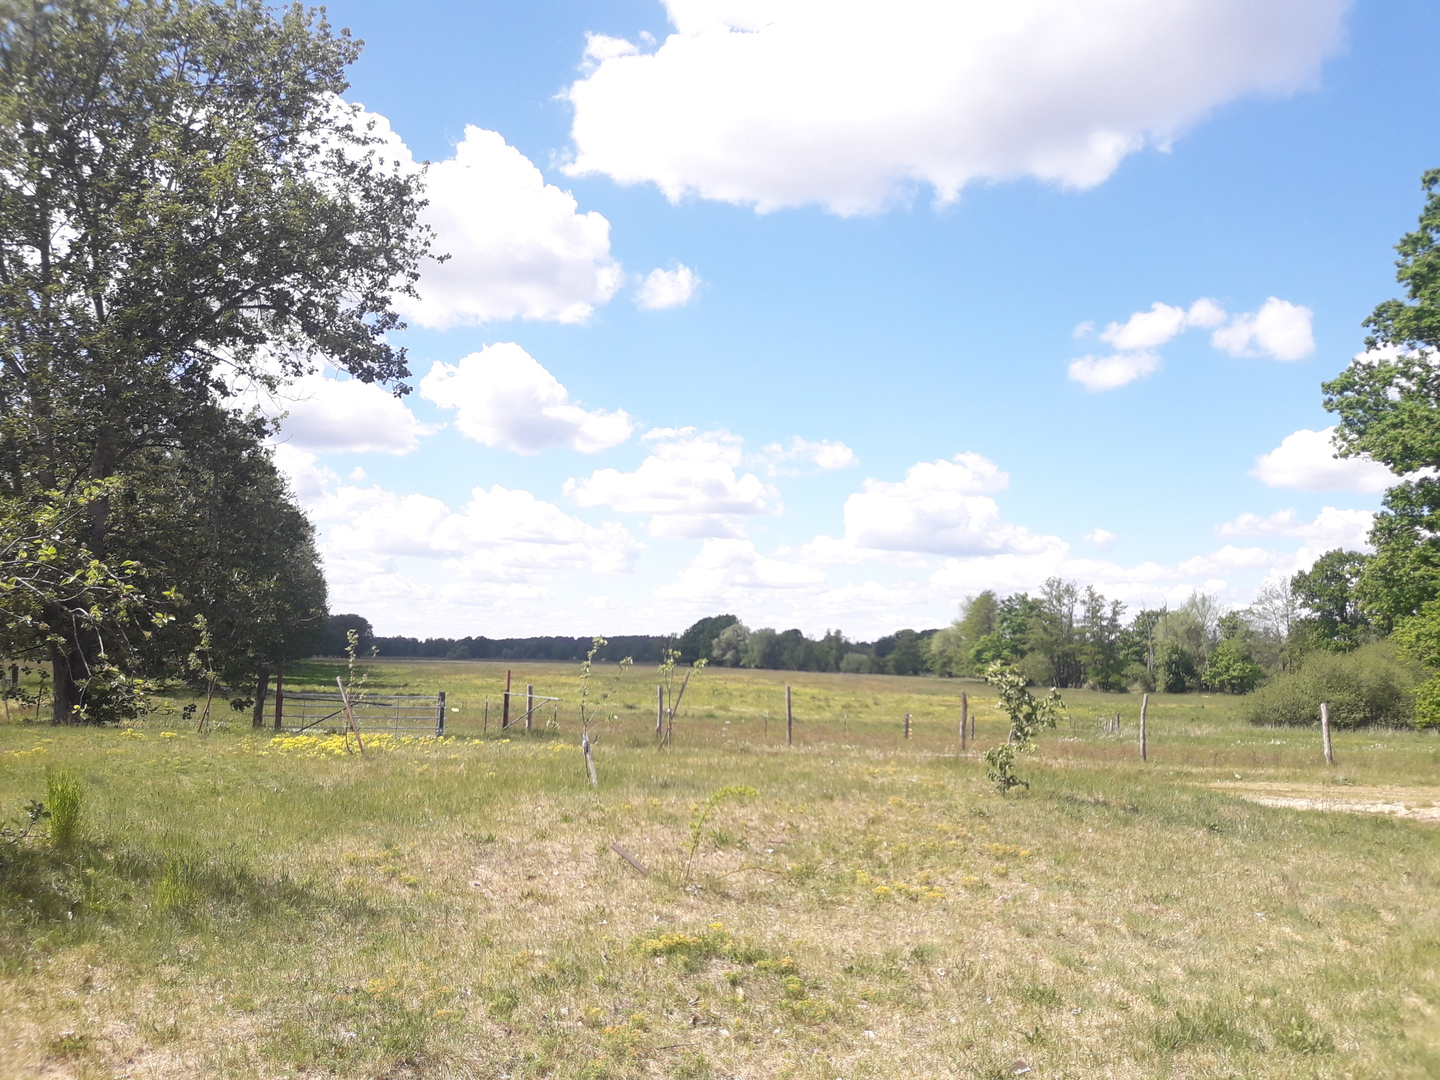
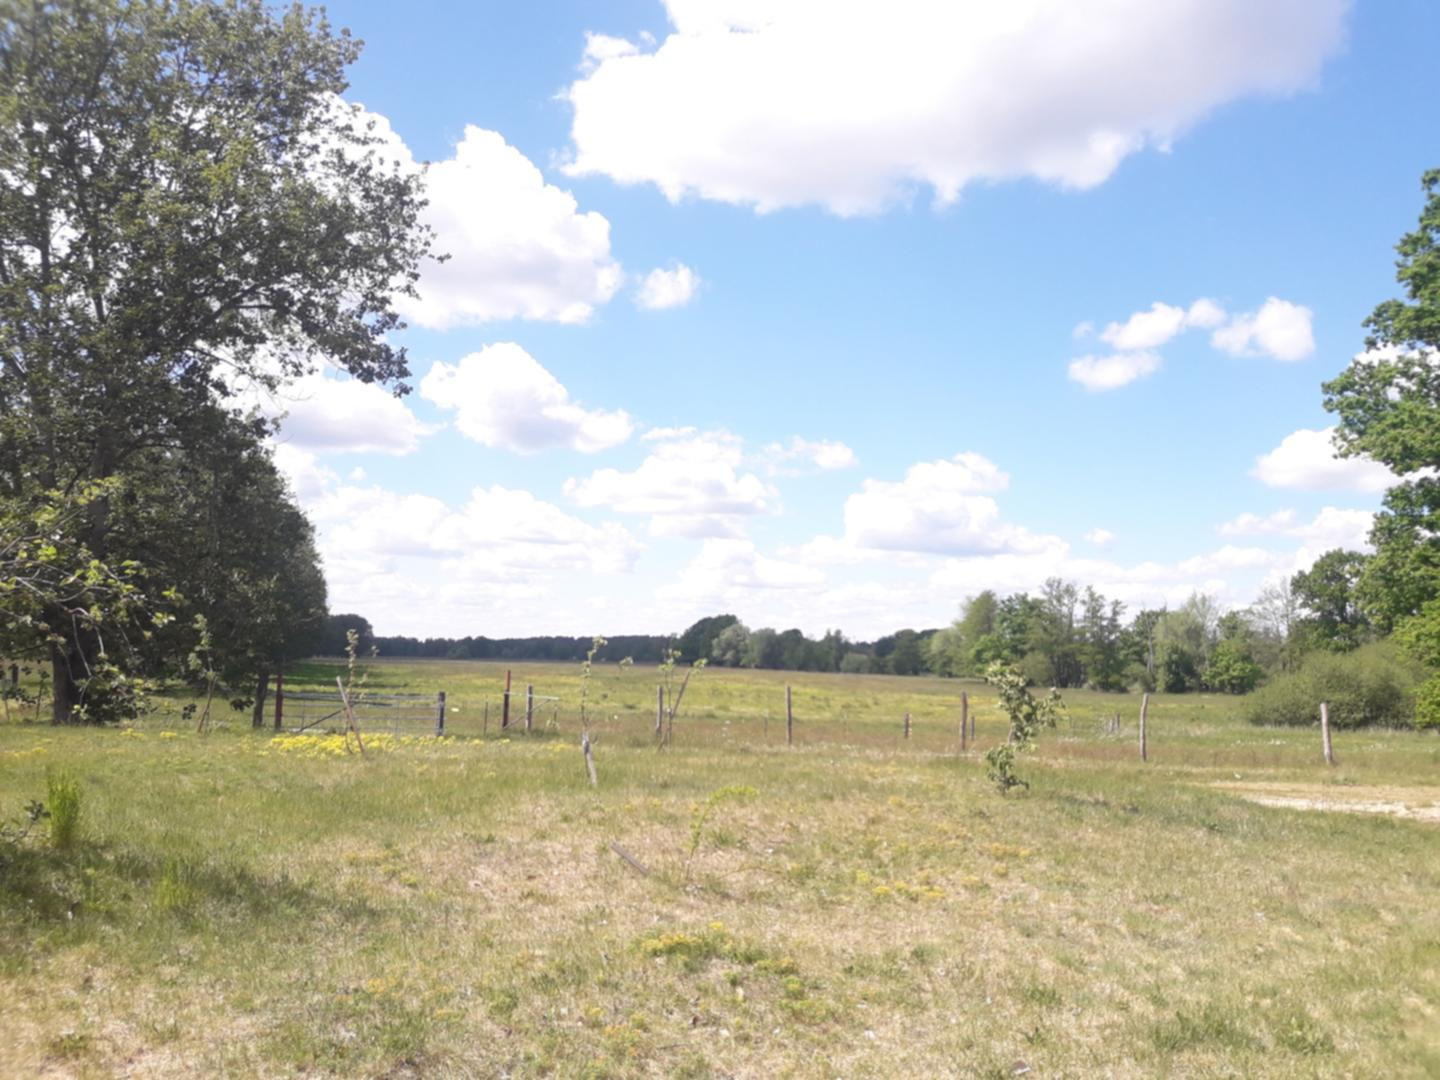
Trying to fix the status spinner in the contact form button & (re)compressed old&new photos

diff --git a/script.js b/script.js
@@ -68,12 +68,12 @@ document.addEventListener('DOMContentLoaded', function()
 			// Set value for the 'actual' email field
 			formData.set('Email', formData.get('_replyto'))
 
-			sendingIcon.removeAttribute('hidden');
-			forsendIcon.setAttribute('hidden', '');
-			if (successIcon.getAttribute('hidden')) successIcon.setAttribute('hidden', '');
-			if (warningIcon.getAttribute('hidden')) warningIcon.setAttribute('hidden', '');
-			if (msgSuccess.getAttribute('hidden')) msgSuccess.setAttribute('hidden', '');
-			if (msgWarning.getAttribute('hidden')) msgWarning.setAttribute('hidden', '');
+			sendingIcon.removeAttribute('aria-hidden');
+			forsendIcon.setAttribute('aria-hidden', 'true');
+			if (successIcon.getAttribute('aria-hidden')) successIcon.setAttribute('aria-hidden', 'true');
+			if (warningIcon.getAttribute('aria-hidden')) warningIcon.setAttribute('aria-hidden', 'true');
+			if (msgSuccess.getAttribute('aria-hidden')) msgSuccess.setAttribute('aria-hidden', 'true');
+			if (msgWarning.getAttribute('aria-hidden')) msgWarning.setAttribute('aria-hidden', 'true');
 			
 			fetch(formSubmit,
 			{
@@ -84,20 +84,20 @@ document.addEventListener('DOMContentLoaded', function()
 			.then(data =>
 			{
 				console.log(data);
-				successIcon.removeAttribute('hidden');
-				if (!sendingIcon.getAttribute('hidden')) sendingIcon.setAttribute('hidden', '');
-				if (!warningIcon.getAttribute('hidden')) warningIcon.setAttribute('hidden', '');
-				msgSuccess.removeAttribute('hidden');
-				if (msgWarning.getAttribute('hidden')) msgWarning.setAttribute('hidden', '');
+				successIcon.removeAttribute('aria-hidden');
+				if (!sendingIcon.getAttribute('aria-hidden')) sendingIcon.setAttribute('aria-hidden', 'true');
+				if (!warningIcon.getAttribute('aria-hidden')) warningIcon.setAttribute('aria-hidden', 'true');
+				msgSuccess.removeAttribute('aria-hidden');
+				if (msgWarning.getAttribute('aria-hidden')) msgWarning.setAttribute('aria-hidden', 'true');
 			})
 			.catch(error =>
 			{
 				console.log(error);
-				warningIcon.removeAttribute('hidden');
-				if (!sendingIcon.getAttribute('hidden')) sendingIcon.setAttribute('hidden', '');
-				if (!successIcon.getAttribute('hidden')) successIcon.setAttribute('hidden', '');
-				msgWarning.removeAttribute('hidden');
-				if (!msgSuccess.getAttribute('hidden')) msgSuccess.setAttribute('hidden', '');
+				warningIcon.removeAttribute('aria-hidden');
+				if (!sendingIcon.getAttribute('aria-hidden')) sendingIcon.setAttribute('aria-hidden', 'true');
+				if (!successIcon.getAttribute('aria-hidden')) successIcon.setAttribute('aria-hidden', 'true');
+				msgWarning.removeAttribute('aria-hidden');
+				if (!msgSuccess.getAttribute('aria-hidden')) msgSuccess.setAttribute('aria-hidden', 'true');
 			});
 		}
 	});

diff --git a/index.html b/index.html
@@ -46,7 +46,7 @@
 
 		<!-- Hero image -->
 		<div id="heropic" class="imgwrapper">
-			<img src="img/hero.jpg" alt="Schwarzer Kater" loading="lazy">
+			<img src="img/hauptfoto.jpg" alt="Schwarzer Kater" loading="lazy">
 		</div>
 
 		<!-- Intro text -->
@@ -248,11 +248,9 @@
 							<circle cx="12" cy="12" r="8"/>
 						</svg>
 						<svg aria-hidden="true" id="kontakt_submit-success" focusable="false" xmlns="http://www.w3.org/2000/svg" width="24" height="24" viewBox="0 0 24 24">
-							<path stroke="none" d="M0 0h24v24H0z" fill="none"/>
 							<path d="M5 12l5 5l10 -10"/>
 						</svg>
 						<svg aria-hidden="true" id="kontakt_submit-warning" focusable="false" xmlns="http://www.w3.org/2000/svg" width="24" height="24" viewBox="0 0 24 24">
-							<path stroke="none" d="M0 0h24v24H0z" fill="none"/>
 							<path d="M18 6l-12 12"/>
 							<path d="M6 6l12 12"/>
 						</svg>
@@ -276,7 +274,6 @@
 				</a>
 			</div>
 			<div id="footer_info">
-				<p>Mara Rosenbauer</p>
 				<p>Maciej Malinowski</p>
 				<address>
 					<p>Schwarzer Kater 2</p>
@@ -286,7 +283,6 @@
 			<dl id="footer_kontakt">
 				<dt>Telefonnummer</dt>
 				<dd>
-					<a href="tel:+49015229216497">0152-29216497</a>
 					<a href="tel:+4901702612873">0170-2612873</a>
 				</dd>
 				<dt>E-mail</dt>
